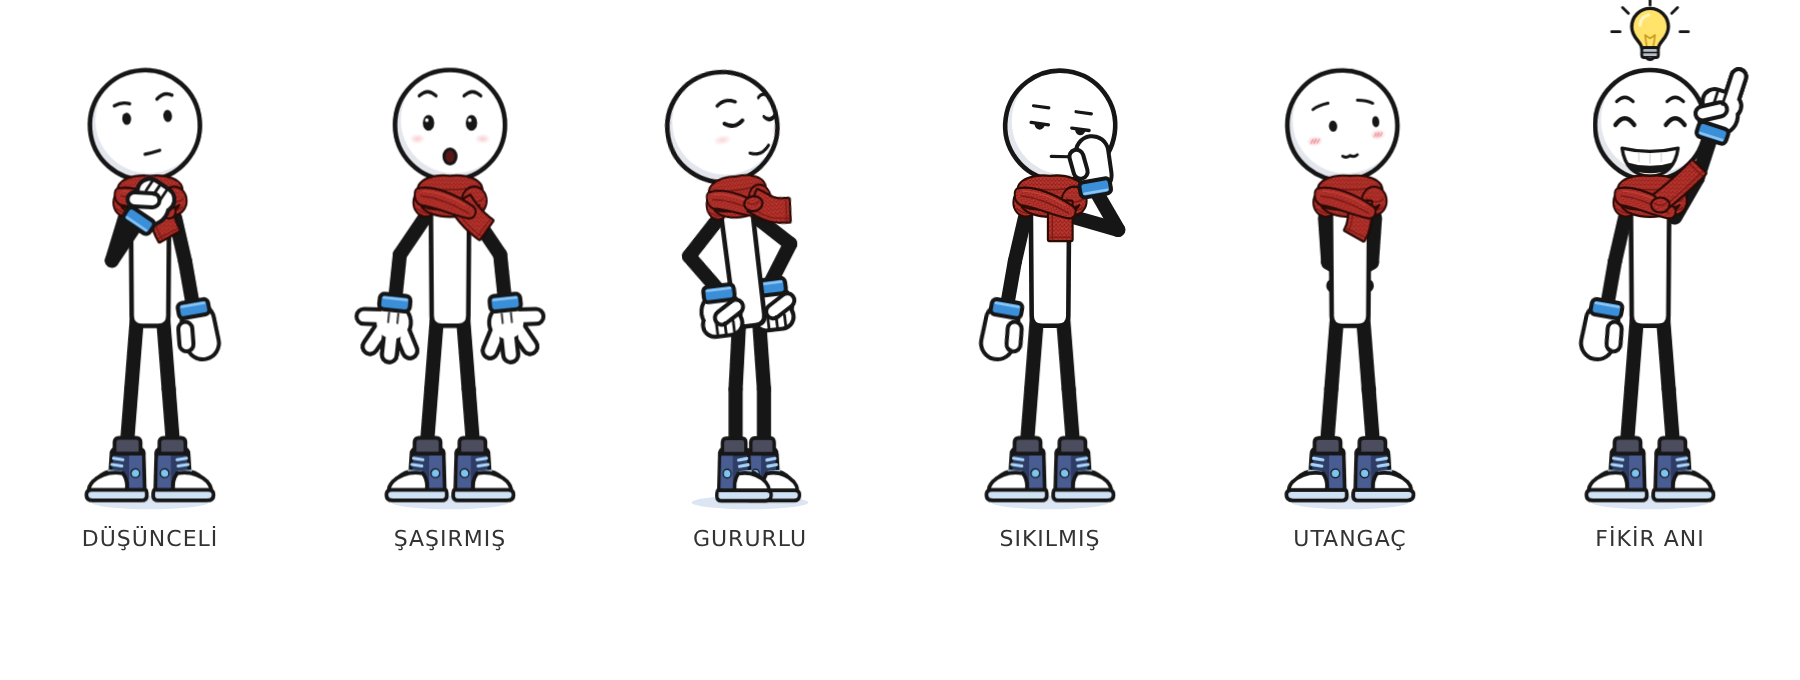
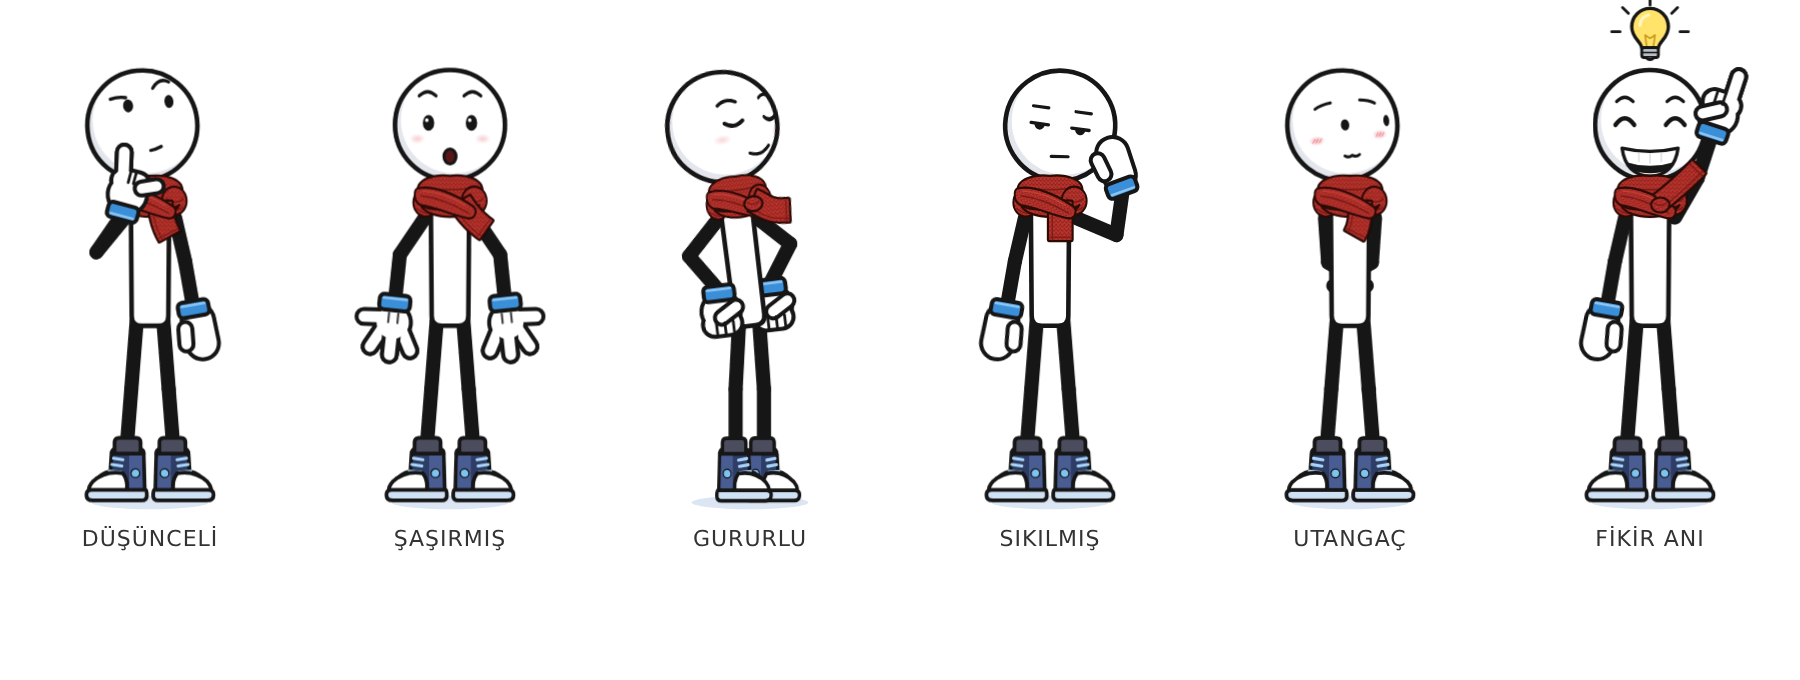
Düzeltmeler: düşünceli (el çenede, cene el pozu), güçlü bakış yönleri, U ağzı, sıkılmış (yanak avuçta), kalın sandalye
- cene el pozu: işaret parmağı yanakta, başparmak çenenin altında; kol açıları iki kemikli çözümden
- bakış: göz bebeği 2× kayar, kafa ~5° döner/eğilir, yukarıda kaş kalkar, aşağıda kapak iner (olculer.BAKIS)
- U: öne büzülmüş küçük oval dudak
- sıkılmış: yanak avuçta, el ağzın yanında, kafa ele doğru 8° yatık
- Sandalye: masayla aynı kontur, kalın dikme/oturak/bacaklar, minder üstü = diz hizası
- onizleme/karakter/duzeltmeler.png

Claude-Session: https://claude.ai/code/session_01Rr3yPMaecGgN3M4nCEc5b7

Changed region(s): [[0.0311, 0.0926, 0.1244, 0.4015], [0.5911, 0.1853, 0.6533, 0.3706], [0.7156, 0.1544, 0.7778, 0.1853]]

diff --git a/src/karakter/yuz.tsx b/src/karakter/yuz.tsx
@@ -1,5 +1,5 @@
 import React from 'react';
-import { RENK, OLCU, CIZGI, BAKIS_KAYMA, type Agiz, type Bakis } from './olculer';
+import { RENK, OLCU, CIZGI, BAKIS, type Agiz, type Bakis } from './olculer';
 
 /** Referanstaki 9 duygu. Ayrıca 'sakin': tam boy referanstaki varsayılan yüz. */
 export const DUYGULAR = [
@@ -57,21 +57,48 @@ const Kalp: React.FC<{ olcek?: number }> = ({ olcek = 1 }) => (
 
 // ---------------------------------------------------------------- 9 yüz
 /** Bir duygunun kaş/göz/ağız/yanak çizimi (kafa yerelinde, merkez 0,0). */
+/** Gözleri açık nokta olan duygular: bakışta göz bebeği kenara kadar kayar, aşağı bakışta göz kapağı iner. */
+const ACIK_GOZ: Duygu[] = ['sakin', 'notr', 'sasirmis', 'dusunceli', 'utangac', 'kafasi_karisik', 'heyecanli'];
+
 function yuzParcalari(d: Duygu, id: string, P: Yerlestir, bak: Bakis, agiz: Agiz): React.ReactNode[] {
   const [bx, by] = bakisKaymasi(bak);
-  // göz (g*) tam kayar, kaş/ağız/yanak yarısı kadar: önce göz bebekleri, sonra yüz
+  const acik = ACIK_GOZ.includes(d);
+  const kapak = bak === 'asagi' && acik;
+  // göz bebekleri (g*) göz alanının kenarına kadar kayar; kapalı/kalp gözler az kayar.
+  // Kafanın dönüşü/eğimi (yüzün tamamı) Nod.tsx'te yaw ve dikey kayma olarak eklenir.
+  const lid: React.ReactNode[] = [];
   const g = (ax: number, ay: number, el: React.ReactNode, k: string) => {
     if (k === 'a' && agiz !== 'kapali') return null;
-    const o = k[0] === 'g' ? 1 : 0.4;
-    return P(ax + bx * o, ay + by * o, el, k, ax === 0 ? 26 : 11);
+    if (k[0] === 'g') {
+      const o = acik ? 1 : 0.35;
+      if (kapak) lid.push(P(ax, ay, <GozKapagi />, `l${k}`, 11));
+      return P(ax + bx * o, ay + by * o, el, k, 11);
+    }
+    // yukarı bakınca kaşlar kalkar
+    const kas = k[0] === 'k' && bak === 'yukari' ? -BAKIS.kasKalkma : 0;
+    return P(ax, ay + kas, el, k, ax === 0 ? 26 : 11);
   };
-  const konusma = agiz !== 'kapali' ? [P(bx * 0.4, 31 + by * 0.4, <AgizSekli agiz={agiz} />, 'ka', 20)] : [];
-  return [...duyguYuzu(d, id, g), ...konusma];
+  const konusma = agiz !== 'kapali' ? [P(0, 31, <AgizSekli agiz={agiz} />, 'ka', 20)] : [];
+  return [...duyguYuzu(d, id, g), ...lid, ...konusma];
 }
 
+/** Aşağı bakışta inik göz kapağı: göz bebeğinin üst kısmını örter. (Göz yuvasının merkezine göre.) */
+const GozKapagi: React.FC = () => (
+  <g>
+    <path d="M-13 -12H13V4Q0 7 -13 4Z" fill="#fff" />
+    <path d="M-10 4Q0 7 10 4" {...cizgi(3.4)} />
+  </g>
+);
+
 export function bakisKaymasi(b: Bakis): [number, number] {
-  const k = BAKIS_KAYMA;
-  return b === 'sol' ? [-k, 0] : b === 'sag' ? [k, 0] : b === 'yukari' ? [0, -k] : b === 'asagi' ? [0, k] : [0, 0];
+  const k = BAKIS.gozBebegi, v = BAKIS.gozBebegiDikey;
+  return b === 'sol' ? [-k, 0] : b === 'sag' ? [k, 0] : b === 'yukari' ? [0, -v] : b === 'asagi' ? [0, v] : [0, 0];
+}
+
+/** Kafanın bakış yönüne dönüşü: [yaw ekleme (radyan), yüzün dikey kayması]. */
+export function bakisKafa(b: Bakis): [number, number] {
+  return b === 'sol' ? [-BAKIS.kafaDonus, 0] : b === 'sag' ? [BAKIS.kafaDonus, 0]
+    : b === 'yukari' ? [0, -BAKIS.kafaEgim] : b === 'asagi' ? [0, BAKIS.kafaEgim] : [0, 0];
 }
 
 // ---------------------------------------------------------------- konuşma ağızları (§8)
@@ -103,10 +130,12 @@ export const AgizSekli: React.FC<{ agiz: Agiz }> = ({ agiz }) => {
     case 'O':
       return <ellipse rx="8" ry="10" fill={RENK.agizIc} {...kontur} />;
     case 'U':
+      // öne büzülmüş dudak: O'dan dar ve küçük; pembe dudak halkası + küçük koyu iç + büzülme çizgileri
       return (
         <g>
-          <ellipse rx="5.5" ry="6" fill={RENK.agizIc} stroke={K} strokeWidth="3.8" />
-          <path d="M-8 -3Q-9 0 -8 3M8 -3Q9 0 8 3" stroke={K} strokeWidth="1.4" fill="none" strokeLinecap="round" />
+          <ellipse rx="6" ry="7.5" fill={RENK.dil} stroke={K} strokeWidth="3" />
+          <ellipse rx="2.2" ry="3.2" fill={RENK.agizIc} />
+          <path d="M-10.5 -2.5L-8 -1M-10.5 2.5L-8 1M10.5 -2.5L8 -1M10.5 2.5L8 1" stroke={K} strokeWidth="1.5" strokeLinecap="round" />
         </g>
       );
     case 'MBP':
@@ -134,11 +163,11 @@ function duyguYuzu(d: Duygu, id: string, g: (ax: number, ay: number, el: React.R
     case 'dusunceli':
       // gözler yukarı-yana, bir kaş hafif kalkık, ağız kenara çekik
       return [
-        g(-23, -24, <path d="M-9 2Q0 -2 9 1" {...cizgi(3.6)} />, 'k1'),
-        g(23, -29, <path d="M-9 3Q0 -5 9 0" {...cizgi(3.6)} />, 'k2'),
-        g(-19, -3, <ellipse rx="5" ry="6.5" fill={K} />, 'g1'),
-        g(25, -3, <ellipse rx="5" ry="6.5" fill={K} />, 'g2'),
-        g(6, 31, <path d="M-8 1Q0 0 8 -2" {...cizgi(3.4)} />, 'a'),
+        g(-23, -23, <path d="M-9 1Q0 -1 9 1" {...cizgi(3.6)} />, 'k1'),
+        g(24, -33, <path d="M-10 4Q-1 -7 10 -1" {...cizgi(3.6)} />, 'k2'),
+        g(-13, -9, <ellipse rx="5.5" ry="7" fill={K} />, 'g1'),
+        g(31, -9, <ellipse rx="5.5" ry="7" fill={K} />, 'g2'),
+        g(12, 31, <path d="M-6 1Q0 0.5 6 -2" {...cizgi(3.4)} />, 'a'),
       ];
     case 'sasirmis':
       // kaşlar yukarıda, büyük nokta gözler, O ağız (olumlu)

diff --git a/scripts/onizleme.tsx b/scripts/onizleme.tsx
@@ -10,8 +10,7 @@ import { Laptop } from '../src/esyalar/Laptop';
 import { Telefon } from '../src/esyalar/Telefon';
 import { Kitap } from '../src/esyalar/Kitap';
 import { Ampul } from '../src/esyalar/Ampul';
-import { Sandalye } from '../src/esyalar/Sandalye';
-import { SandalyeArka, SandalyeOn } from '../src/esyalar/Sandalye';
+import { Sandalye, SandalyeArka, SandalyeOn } from '../src/esyalar/Sandalye';
 import { DUYGULAR, EK_DUYGULAR, type Duygu } from '../src/karakter/yuz';
 import { AYAKTA, OTURAN, EL_SALLAYAN, ISARET_EDEN, DUYGU_POZLARI, FIKIR, type Poz } from '../src/karakter/poz';
 import { AGIZLAR, type Agiz, type Bakis } from '../src/karakter/olculer';
@@ -231,6 +230,45 @@ async function main() {
   <div style="padding:26px 40px 10px;font-size:40px;font-weight:bold">NOD — Karakter Sayfası</div>
   ${sAgiz}${sArka}${sDuygu}${sBakis}${sEsya}`;
   await cek('karakter-sayfasi.png', sayfaHtml, 1920, 2850);
+
+  // ------------------------------------------------ DÜZELTMELER (yalnızca düzeltilen kısımlar)
+  const yakin = (id: string, el: React.ReactElement, w = 300, ust = 95, yuk = 260) => svg(
+    <svg viewBox={`-130 ${OLCU.kafaY - ust} 260 ${yuk}`} width={w} height={w * yuk / 260}>{el}</svg>);
+  const dDus = bolum('1 · DÜŞÜNCELİ', hucreler([
+    etiketli(boy('dz0', <Nod id="dz0" duygu="dusunceli" kare={20} />, 330), 'tam boy', 340),
+    etiketli(yakin('dz1', <Nod id="dz1" duygu="dusunceli" kare={20} golge={false} />, 420), 'yakın: işaret parmağı yanakta, başparmak çenenin altında', 440),
+  ]), 'dirsek bükülü · kafa 6° yatık · göz bebekleri yukarı-yana · sağ kaş kalkık · ağız küçük, yana kaymış');
+  const bak5: Bakis[] = ['sol', 'sag', 'yukari', 'asagi', 'izleyici'];
+  const dBak = bolum('2 · BAKIŞ YÖNLERİ', hucreler(
+    bak5.map((b, i) => etiketli(kafa(`dbk${i}`, <Nod id={`dbk${i}`} bak={b} golge={false} />, 250), b, 260)),
+  ) + `<div class="alt">Küçük boyutta (90px) okunurluk testi:</div>` + hucreler(
+    bak5.map((b, i) => etiketli(kafa(`dbs${i}`, <Nod id={`dbs${i}`} bak={b} golge={false} />, 90), b, 110)),
+  ), 'göz bebeği kayması 2×, kafa ~5° döner/eğilir, yukarıda kaş kalkar, aşağıda kapak iner');
+  const dU = bolum('3 · U AĞZI', hucreler([
+    etiketli(kafa('du0', <Nod id="du0" agiz="O" golge={false} />, 250), 'O (karşılaştırma)', 260),
+    etiketli(kafa('du1', <Nod id="du1" agiz="U" golge={false} />, 250), 'U — öne büzülmüş dudak', 260),
+    etiketli(kafa('du2', <Nod id="du2" agiz="U" duygu="mutlu" golge={false} />, 250), 'mutlu + U', 260),
+  ]));
+  const dSik = bolum('4 · SIKILMIŞ', hucreler([
+    etiketli(boy('ds0', <Nod id="ds0" duygu="sikilmis" kare={20} />, 330), 'tam boy', 340),
+    etiketli(yakin('ds1', <Nod id="ds1" duygu="sikilmis" kare={20} golge={false} />, 420), 'yakın: yanak avuçta, ağız açıkta', 440),
+  ]), 'kafa ele doğru 8° yatık · yarı kapalı gözler');
+  const sandVB = '-200 -560 400 590';
+  const sand = (el: React.ReactElement, w = 360) => svg(<svg viewBox={sandVB} width={w} height={w * 590 / 400}>{el}</svg>);
+  const dSand = bolum('5 · SANDALYE (yeniden)', hucreler([
+    etiketli(sand(<Sandalye />), 'sandalye (yandan)', 370),
+    etiketli(sand(<g><SandalyeArka /><Nod id="dsn0" poz={OTURAN} duygu="mutlu" kare={8} golge={false} /><SandalyeOn /></g>), 'Nod oturuyor: minder = diz hizası', 370),
+    etiketli(svg(<svg viewBox="-260 -560 520 590" width="470" height={470 * 590 / 520}>
+      <g transform="translate(-90 0)"><Nod id="dsn1" gorunus="yan" kare={8} /></g>
+      <g transform="translate(110 0)"><Sandalye /></g></svg>), 'Nod ayakta, sandalyenin yanında', 480),
+  ]), 'masayla aynı kontur kalınlığı · arkalıklı · ön bacak Nod\'un önünde');
+  await cek('duzeltmeler.png', `<style>
+    .bolum{font-size:26px;font-weight:bold;color:#222;border-bottom:3px solid #222;padding-bottom:6px;margin-bottom:12px}
+    .not{font-size:17px;font-weight:normal;color:#666;margin-left:16px}
+    .alt{font-size:18px;color:#555;margin:6px 0 4px}
+  </style>
+  <div style="padding:26px 40px 10px;font-size:36px;font-weight:bold">NOD — Düzeltmeler</div>
+  ${dDus}${dBak}${dU}${dSik}${dSand}`, 1500, 2900);
 
   await tarayici.close();
 }

diff --git a/src/esyalar/Sandalye.tsx b/src/esyalar/Sandalye.tsx
@@ -2,31 +2,39 @@ import React from 'react';
 import { OLCU } from '../karakter/olculer';
 import { ESYA, kontur, detay } from './stil';
 
-// Yandan sandalye, zemin y=0. Oturak üstü, oturan Nod'un uyluk alt kenarına denk gelir
-// (baldır dik, ayak yerde): Nod'un ölçüleri değişirse sandalye de uyar.
+// Yandan sandalye (sağa bakan Nod için), zemin y=0. Masayla aynı kalın kontur.
+// Minder üstü = oturan Nod'un uyluk alt kenarı = diz hizası (baldır dik, ayak yerde);
+// Nod'un ölçüleri değişirse sandalye de uyar.
 // Katman sırası (§7): <SandalyeArka /> → <Nod /> → <SandalyeOn />
 export const OTURAK_Y = -(OLCU.altBacak - OLCU.bilekY) + OLCU.bacakKalinlik / 2;
 const Y = OTURAK_Y;
-
-const Bacak: React.FC<{ x: number; ust: number }> = ({ x, ust }) => (
-  <rect x={x - 6} y={ust} width="12" height={-ust} rx="4" fill={ESYA.dolgu} {...kontur} />
-);
+const MINDER = 10;
+const OTURAK_KALINLIK = 22;
+const OTURAK_ALT = Y + MINDER + OTURAK_KALINLIK;
 
 /** Arkalık, arka bacak, oturak, destek: Nod'un arkasında kalan her şey. */
 export const SandalyeArka: React.FC = () => (
   <g>
-    <Bacak x={-48} ust={Y - 150} />
-    <rect x="-60" y={Y - 132} width="20" height="110" rx="7" fill={ESYA.dolgu} {...kontur} />
-    <path d={`M-50 ${Y - 120}V${Y - 34}`} {...detay} stroke={ESYA.golge} strokeWidth="5" />
-    <rect x="-48" y={Y * 0.38 - 4} width="92" height="8" rx="3" fill={ESYA.dolgu} {...kontur} />
+    {/* arka bacak + arkalık dikmesi (tek parça) */}
+    <rect x="-58" y={Y - 168} width="20" height={-Y + 168} rx="7" fill={ESYA.dolgu} {...kontur} />
+    {/* arkalık paneli (hafif geriye yatık) */}
+    <g transform={`rotate(-4 -48 ${Y})`}>
+      <rect x="-66" y={Y - 160} width="40" height="108" rx="14" fill={ESYA.dolgu} {...kontur} />
+      <path d={`M-56 ${Y - 140}H-36M-56 ${Y - 118}H-36`} {...detay} />
+    </g>
+    {/* bacaklar arası destek */}
+    <rect x="-44" y="-58" width="92" height="12" rx="5" fill={ESYA.dolgu} {...kontur} />
     {/* oturak + minder (az renk) */}
-    <rect x="-62" y={Y} width="118" height="15" rx="6" fill={ESYA.dolgu} {...kontur} />
-    <rect x="-58" y={Y - 9} width="108" height="11" rx="5" fill={ESYA.vurguAcik} {...kontur} strokeWidth={3.5} />
+    <rect x="-66" y={Y + MINDER} width="130" height={OTURAK_KALINLIK} rx="9" fill={ESYA.dolgu} {...kontur} />
+    <path d={`M-56 ${OTURAK_ALT - 7}H54`} {...detay} stroke={ESYA.golge} strokeWidth="4" />
+    <rect x="-60" y={Y} width="118" height={MINDER + 4} rx="6" fill={ESYA.vurguAcik} {...kontur} />
   </g>
 );
 
-/** Ön bacak: Nod'un önünde. */
-export const SandalyeOn: React.FC = () => <Bacak x={44} ust={Y + 15} />;
+/** Ön bacak: Nod'un önünde; Nod'un baldırından geride kalır, içinden geçmez. */
+export const SandalyeOn: React.FC = () => (
+  <rect x="34" y={OTURAK_ALT - 6} width="20" height={-(OTURAK_ALT - 6)} rx="7" fill={ESYA.dolgu} {...kontur} />
+);
 
 /** Tek parça (Nod oturmuyorken). */
 export const Sandalye: React.FC = () => (

diff --git a/src/karakter/parcalar.tsx b/src/karakter/parcalar.tsx
@@ -4,7 +4,8 @@ import { seritYolu, type AtkiSekli } from './atkiTepki';
 
 import type { GorunusAdi } from './olculer';
 export type Gorunus = GorunusAdi;
-export type ElPozu = 'acik' | 'yumruk' | 'isaret' | 'salla' | 'tut';
+/** cene: düşünme eli — işaret parmağı yanakta, başparmak çenenin altında (çeneyi tutar). */
+export type ElPozu = 'acik' | 'yumruk' | 'isaret' | 'salla' | 'tut' | 'cene';
 
 // ---------------------------------------------------------------- defs
 // Örgü dokusu: koyu ince ilmek çizgileri + açık ilmek noktaları.
@@ -87,6 +88,14 @@ function elParcalari(poz: ElPozu, s: number): Parca[] {
         { t: 'k', x1: -5, y1: 22, x2: 5, y2: 22, w: 13, kat: 'birlesik' },
         { t: 'k', x1: 10 * s, y1: 12, x2: 0, y2: 18, w: 6.5, kat: 'ust' },
       ];
+    case 'cene':
+      return [
+        // işaret parmağı dış yanda yukarı (yanak boyunca), başparmak içe doğru yatay (çenenin altı): L biçimi
+        { t: 'k', x1: -5 * s, y1: 22, x2: -9 * s, y2: 40, w: 7, kat: 'alt' },
+        { t: 'c', x: 0, y: 14, r: 11.5, kat: 'birlesik' },
+        { t: 'k', x1: -5, y1: 22, x2: 5, y2: 22, w: 13, kat: 'birlesik' },
+        { t: 'k', x1: 8 * s, y1: 20, x2: 17 * s, y2: 24, w: 6.5, kat: 'ust' },
+      ];
     case 'tut':
       return [
         { t: 'c', x: 0, y: 15, r: 11, kat: 'birlesik' },
@@ -136,8 +145,8 @@ export const El: React.FC<{ poz: ElPozu; s?: number; nesne?: React.ReactNode }> 
         </g>
       ))}
       {/* yumruk: kıvrık parmak çizgileri */}
-      {(poz === 'yumruk' || poz === 'isaret') && (
-        <path d={poz === 'yumruk' ? 'M-4 21V29M1.5 21.5V29.5M7 21V28' : `M${-0.5 * s} 21.5V29.5M${5 * s} 21V28.5`}
+      {(poz === 'yumruk' || poz === 'isaret' || poz === 'cene') && (
+        <path d={poz === 'yumruk' ? 'M-4 21V29M1.5 21.5V29.5M7 21V28' : poz === 'cene' ? `M${2 * s} 21.5V29M${-1.5 * s} 21.5V29.5` : `M${-0.5 * s} 21.5V29.5M${5 * s} 21V28.5`}
           stroke={RENK.murekkep} strokeWidth="1.8" strokeLinecap="round" />
       )}
       {/* eldiven sırt dikişleri (çizgi film eldiveni) */}

diff --git a/src/karakter/poz.ts b/src/karakter/poz.ts
@@ -90,11 +90,13 @@ export const ISARET_EDEN: Poz = {
 // ---------------------------------------------------------------- ek duygu pozları (§3)
 // Açılar önden bakış için hesaplandı (omuz/dirsek/bilek zinciri; uzuv boyları sabit).
 export const DUYGU_POZLARI: Partial<Record<Duygu, Poz>> = {
-  /** eli çenesinde, gözler yukarı */
+  /** eli çenesinde: dirsek dışarıda bükülü, işaret parmağı yanakta, başparmak çenenin altında; kafa ele doğru ~6° yatık.
+   *  İki kemikli çözüm: omuz (-30,-124), bilek (-34,-127), dirsek (-64,-82); el 195° (yukarı-içe),
+   *  işaret parmağı ucu sol yanakta (-31,-203), başparmak ucu çenenin altında (8,-162). Uzuv boyları sabit. */
   dusunceli: {
     ...AYAKTA.on,
-    sagKol: { omuz: 17, dirsek: -163, bilek: 0, el: 'yumruk' },
-    kafaEgim: -4,
+    sagKol: { omuz: 39.5, dirsek: 175, bilek: -19.6, el: 'cene', ayna: true },
+    kafaEgim: -6,
     atki: { a1: 0, a2: 0 },
   },
   /** kollar hafif açılır */
@@ -113,10 +115,11 @@ export const DUYGU_POZLARI: Partial<Record<Duygu, Poz>> = {
     solKol: { omuz: -45, dirsek: 79, bilek: -34, el: 'yumruk' },
     atki: { a1: 0, a2: 0 },
   },
-  /** yanağı ele dayalı, kafa ele doğru eğik */
+  /** yanak avuca dayalı (el ağzın yanında, ağzı kapatmaz), kafa ele doğru 8° yatık.
+   *  Açılar omuz (30,-124) → bilek (88,-156) çözümünden; avuç yanağın sağ altına değer. */
   sikilmis: {
     ...AYAKTA.on,
-    solKol: { omuz: -74, dirsek: -136, bilek: 20, el: 'acik', ayna: true },
+    solKol: { omuz: -67, dirsek: -105, bilek: -28, el: 'acik', ayna: true },
     kafaEgim: 8,
     atki: { a1: 0, a2: 0 },
   },

diff --git a/src/karakter/Nod.tsx b/src/karakter/Nod.tsx
@@ -5,7 +5,7 @@ import {
   Tanimlar, El, Ayakkabi, AtkiSarili, AtkiOn, AtkiUcu, AtkiDugumArka, atkiUcNoktasi,
   type Gorunus, type ElPozu,
 } from './parcalar';
-import { YuzOzellikleri, YuzTonu, Ekler, type Duygu } from './yuz';
+import { YuzOzellikleri, YuzTonu, Ekler, bakisKafa, type Duygu } from './yuz';
 import { AYAKTA, DUYGU_POZLARI, type Poz, type Kol, type Bacak } from './poz';
 import { atkiSekli, atkiKaristir, atkiSalinim, type AtkiDurumAdi } from './atkiTepki';
 import { Ampul } from '../esyalar/Ampul';
@@ -93,11 +93,12 @@ const Kafa: React.FC<{
 }> = ({ id, yaw, duygu, onceki, t, kare, bak, agiz, ayna, arka }) => {
   const R = OLCU.kafaR;
   const sikis = 1 - 0.28 * Math.sin(Math.PI * t); // geçişte yüz hafifçe büzülüp açılır (kırpışma)
+  const [donus, egim] = bakisKafa(bak); // bakış yönüne kafa ~5° döner/eğilir
   const katman = (d: Duygu, op: number, key: string) =>
     op <= 0.001 ? null : (
       <g key={key} opacity={op}>
         {!arka && <g clipPath={`url(#${id}-kafa)`}><YuzTonu duygu={d} id={id} /></g>}
-        {!arka && <g clipPath={`url(#${id}-kafa)`}><g transform={`translate(0 2) scale(1.12 ${1.12 * sikis})`}><YuzOzellikleri duygu={d} id={id} yaw={yaw} bak={bak} agiz={agiz} /></g></g>}
+        {!arka && <g clipPath={`url(#${id}-kafa)`}><g transform={`translate(0 ${2 + egim}) scale(1.12 ${1.12 * sikis})`}><YuzOzellikleri duygu={d} id={id} yaw={yaw + donus} bak={bak} agiz={agiz} /></g></g>}
       </g>
     );
   const ek = (d: Duygu, op: number, key: string) =>

diff --git a/src/karakter/olculer.ts b/src/karakter/olculer.ts
@@ -113,6 +113,12 @@ export const ATKI = {
 export const AGIZLAR = ['kapali', 'A', 'E', 'I', 'O', 'U', 'MBP', 'FV'] as const;
 export type Agiz = (typeof AGIZLAR)[number];
 
-/** Bakış yönü (§2): göz bebekleri bu kadar kayar, yüz bunun yarısı kadar. */
+/** Bakış yönü (§2): göz bebekleri göz alanının kenarına kadar kayar; kafa da o yöne ~5° döner/eğilir. */
 export type Bakis = 'sol' | 'sag' | 'yukari' | 'asagi' | 'izleyici';
-export const BAKIS_KAYMA = 7;
+export const BAKIS = {
+  gozBebegi: 14, // yatay göz bebeği kayması (eskisinin 2 katı)
+  gozBebegiDikey: 9, // dikey kayma (göz yuvası dikeyde daha dar)
+  kafaDonus: 0.09, // sol/sag: kafa dönüşü (radyan, ~5°) — yüz küre üstünde kayar
+  kafaEgim: 7, // yukari/asagi: yüzün yukarı/aşağı kayması (~5° eğim)
+  kasKalkma: 5, // yukari: kaşlar kalkar
+} as const;
